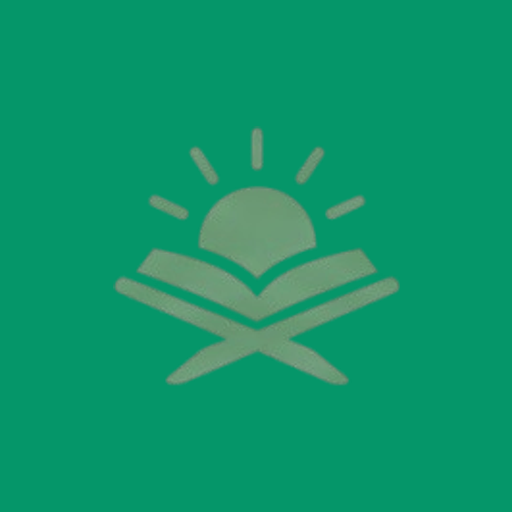
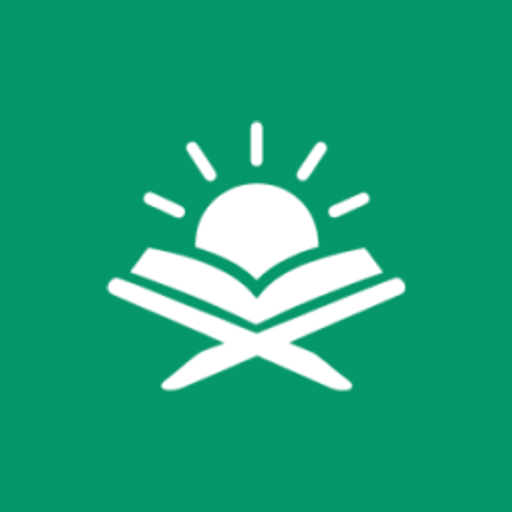
feat(pwa): ikon maskable kontras + bilah ajakan pasang ke layar utama
1. icon-maskable-512 dulu logo hijau muda di atas latar hijau --sage,
   kontrasnya nyaris rata di sebagian launcher Android. Sekarang logo
   diputihkan (lewat kanal alpha, bukan warna sumber) dan diperbesar ke
   58% kanvas, tetap di dalam lingkaran aman 80%. Skrip pembuatnya
   disimpan di frontend/tools/buat-ikon-pwa.mjs (dijalankan manual).

2. AjakanPasangApp: bilah "Pasang Ruang Ngaji" yang muncul sekali dan
   bisa ditutup permanen. Chrome menahan beforeinstallprompt lalu
   memanggilnya ulang saat tombol ditekan; Safari iOS tidak punya
   peristiwa itu sehingga hanya diberi petunjuk menu Bagikan. Dirender
   di layout supaya ikut tampil di halaman login.

Changed region(s): [[0.1875, 0.2188, 0.8125, 0.7812]]

diff --git a/frontend/components/ui/AjakanPasangApp.tsx b/frontend/components/ui/AjakanPasangApp.tsx
@@ -1,0 +1,139 @@
+'use client';
+
+/* Ajakan memasang app ke layar utama (2026-09-01, diminta owner).
+
+   Alasan: PWA-nya sudah siap sejak 2026-08-27 (app/manifest.ts, mode
+   standalone) tapi guru harus tahu sendiri menu "titik tiga > Tambahkan ke
+   layar utama" -- praktis tidak ada yang memasang. Bilah ini muncul SEKALI,
+   bisa ditutup, dan setelah ditutup/terpasang tidak pernah muncul lagi.
+
+   Dua jalur, karena browsernya beda perilaku:
+   - Chrome Android (dan Chrome/Edge desktop): peristiwa
+     `beforeinstallprompt` ditahan (preventDefault) lalu dipanggil ulang
+     saat guru menekan "Pasang" -- ini SATU-SATUNYA cara memunculkan dialog
+     pasang dari dalam halaman, dan hanya boleh dipanggil dari klik asli.
+   - Safari iOS: TIDAK punya peristiwa itu sama sekali, pemasangan wajib
+     lewat menu Bagikan. Jadi di sana bilahnya cuma memberi petunjuk
+     (tanpa tombol Pasang) -- bukan tombol yang tidak melakukan apa-apa.
+
+   Sengaja dirender di app/layout.tsx (bukan RequireAuth) supaya ikut
+   tampil di halaman login: di situlah guru baru pertama kali membuka app.
+   Posisinya melayang di atas bottom nav, pola & offset sama dgn
+   BannerOffline.tsx supaya tidak bertumpuk dgn nav. */
+
+import { useEffect, useState } from 'react';
+import Image from 'next/image';
+import { X, Share } from 'lucide-react';
+
+const KUNCI = 'ajakan_pasang_ditutup';
+
+type PeristiwaPasang = Event & {
+  prompt: () => Promise<void>;
+  userChoice: Promise<{ outcome: 'accepted' | 'dismissed' }>;
+};
+
+export default function AjakanPasangApp() {
+  const [peristiwa, setPeristiwa] = useState<PeristiwaPasang | null>(null);
+  const [modeIOS, setModeIOS] = useState(false);
+  const [tampil, setTampil] = useState(false);
+
+  useEffect(() => {
+    /* localStorage bisa melempar (mode privat/site data diblokir) -- jangan
+       sampai itu menggagalkan render halaman. */
+    try {
+      if (localStorage.getItem(KUNCI)) return;
+    } catch {}
+
+    const sudahTerpasang =
+      window.matchMedia('(display-mode: standalone)').matches ||
+      (window.navigator as Navigator & { standalone?: boolean }).standalone === true;
+    if (sudahTerpasang) return;
+
+    const ua = window.navigator.userAgent;
+    // Chrome/Firefox/Edge di iOS memakai mesin Safari tapi TIDAK punya menu
+    // "Tambah ke Layar Utama" -- percuma memberi petunjuk Bagikan di sana.
+    if (/iphone|ipad|ipod/i.test(ua) && !/crios|fxios|edgios/i.test(ua)) {
+      setModeIOS(true);
+      setTampil(true);
+      return;
+    }
+
+    const saatBisaPasang = (e: Event) => {
+      e.preventDefault();
+      setPeristiwa(e as PeristiwaPasang);
+      setTampil(true);
+    };
+    const saatTerpasang = () => tutup();
+    window.addEventListener('beforeinstallprompt', saatBisaPasang);
+    window.addEventListener('appinstalled', saatTerpasang);
+    return () => {
+      window.removeEventListener('beforeinstallprompt', saatBisaPasang);
+      window.removeEventListener('appinstalled', saatTerpasang);
+    };
+  }, []);
+
+  function tutup() {
+    setTampil(false);
+    try {
+      localStorage.setItem(KUNCI, new Date().toISOString());
+    } catch {}
+  }
+
+  async function pasang() {
+    if (!peristiwa) return;
+    await peristiwa.prompt();
+    // Ditolak sekalipun bilahnya tidak dimunculkan lagi -- guru sudah tahu
+    // fitur ini ada, memunculkannya berulang cuma mengganggu.
+    await peristiwa.userChoice;
+    tutup();
+  }
+
+  if (!tampil) return null;
+
+  return (
+    <div
+      className="fixed inset-x-0 z-[555] flex justify-center px-4"
+      style={{ bottom: 'calc(76px + env(safe-area-inset-bottom))' }}
+    >
+      <div className="flex w-full max-w-[430px] items-center gap-3 rounded-[var(--radius-lg)] border border-border bg-panel p-3 shadow-[0_12px_32px_rgba(15,23,42,0.18)]">
+        <Image
+          src="/icon-192.png"
+          alt=""
+          width={40}
+          height={40}
+          className="shrink-0 rounded-[10px]"
+        />
+        <div className="min-w-0 flex-1">
+          <p className="text-[13px] font-bold text-text">Pasang Ruang Ngaji</p>
+          {modeIOS ? (
+            <p className="mt-0.5 flex flex-wrap items-center gap-x-1 text-[11.5px] text-text-dim">
+              Ketuk <Share size={12} className="inline shrink-0" /> Bagikan, lalu pilih
+              &ldquo;Tambah ke Layar Utama&rdquo;.
+            </p>
+          ) : (
+            <p className="mt-0.5 text-[11.5px] text-text-dim">
+              Buka langsung dari layar utama, tanpa address bar.
+            </p>
+          )}
+        </div>
+        {!modeIOS && (
+          <button
+            type="button"
+            onClick={pasang}
+            className="shrink-0 cursor-pointer rounded-full border border-brass bg-brass px-4 py-2 text-[12.5px] font-bold text-white active:scale-[0.96]"
+          >
+            Pasang
+          </button>
+        )}
+        <button
+          type="button"
+          onClick={tutup}
+          aria-label="Tutup ajakan pasang"
+          className="shrink-0 cursor-pointer rounded-full border-none bg-transparent p-1.5 text-text-faint active:bg-bg"
+        >
+          <X size={16} />
+        </button>
+      </div>
+    </div>
+  );
+}

diff --git a/frontend/app/layout.tsx b/frontend/app/layout.tsx
@@ -2,6 +2,7 @@ import type { Metadata, Viewport } from "next";
 import "./globals.css";
 import { AuthProvider } from "@/lib/auth-context";
 import { ToastProvider } from "@/components/ui/useToast";
+import AjakanPasangApp from "@/components/ui/AjakanPasangApp";
 
 export const metadata: Metadata = {
   title: "Ruang Ngaji — Platform Manajemen Ngaji",
@@ -47,7 +48,12 @@ export default function RootLayout({ children }: LayoutProps<"/">) {
     <html lang="en" className="h-full">
       <body className="min-h-full flex flex-col">
         <AuthProvider>
-          <ToastProvider>{children}</ToastProvider>
+          <ToastProvider>
+            {children}
+            {/* Ajakan "Tambah ke Layar Utama" — di sini, bukan di
+                RequireAuth, supaya ikut tampil di halaman login. */}
+            <AjakanPasangApp />
+          </ToastProvider>
         </AuthProvider>
       </body>
     </html>
